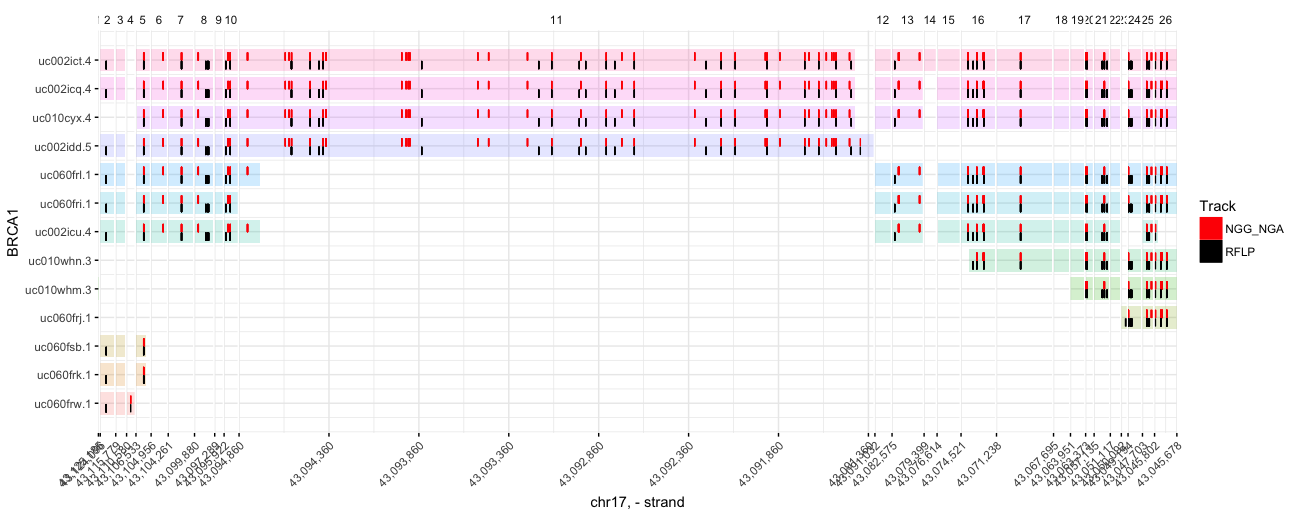
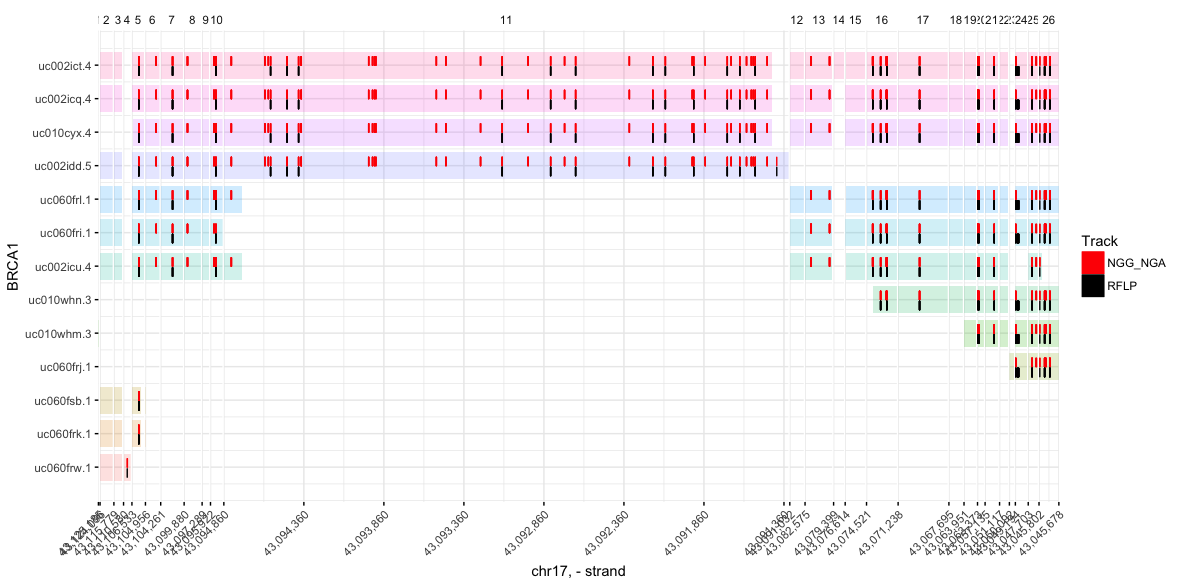
Update README

diff --git a/README.md b/README.md
@@ -51,10 +51,10 @@ You can plot as many tracks as you like (though any more than 4 becomes difficul
 ``` r
 plot_spliced_isoforms(
   gene    = 'BRCA1', 
-  coords  = filter(Human_CDS, tx %in% BRCA$tx),    # Limit isoforms to those validated during codon search
-  colors  = c('red', 'black'),                     # Hex colors are also valid (e.g. #8bca9d)
-  NGG_NGA = filter(BRCA, has(sgNGG) | has(sgNGA)), # Track 1  `|` means "or"
-  RFLP    = filter(BRCA, has(RFLP_150))            # Track 2
+  coords  = filter(Human_CDS, tx %in% BRCA$tx),      # Limit isoforms to those validated during codon search
+  colors  = c('red', 'black'),                       # Hex colors are also valid (e.g. #8bca9d)
+  NGG_NGA = filter(BRCA, has(sgNGG) | has(sgNGA)),   # Track 1  `|` means "or"
+  RFLP    = filter(BRCA, match_any  & has(RFLP_150)) # Track 2
 )
 ```
 
